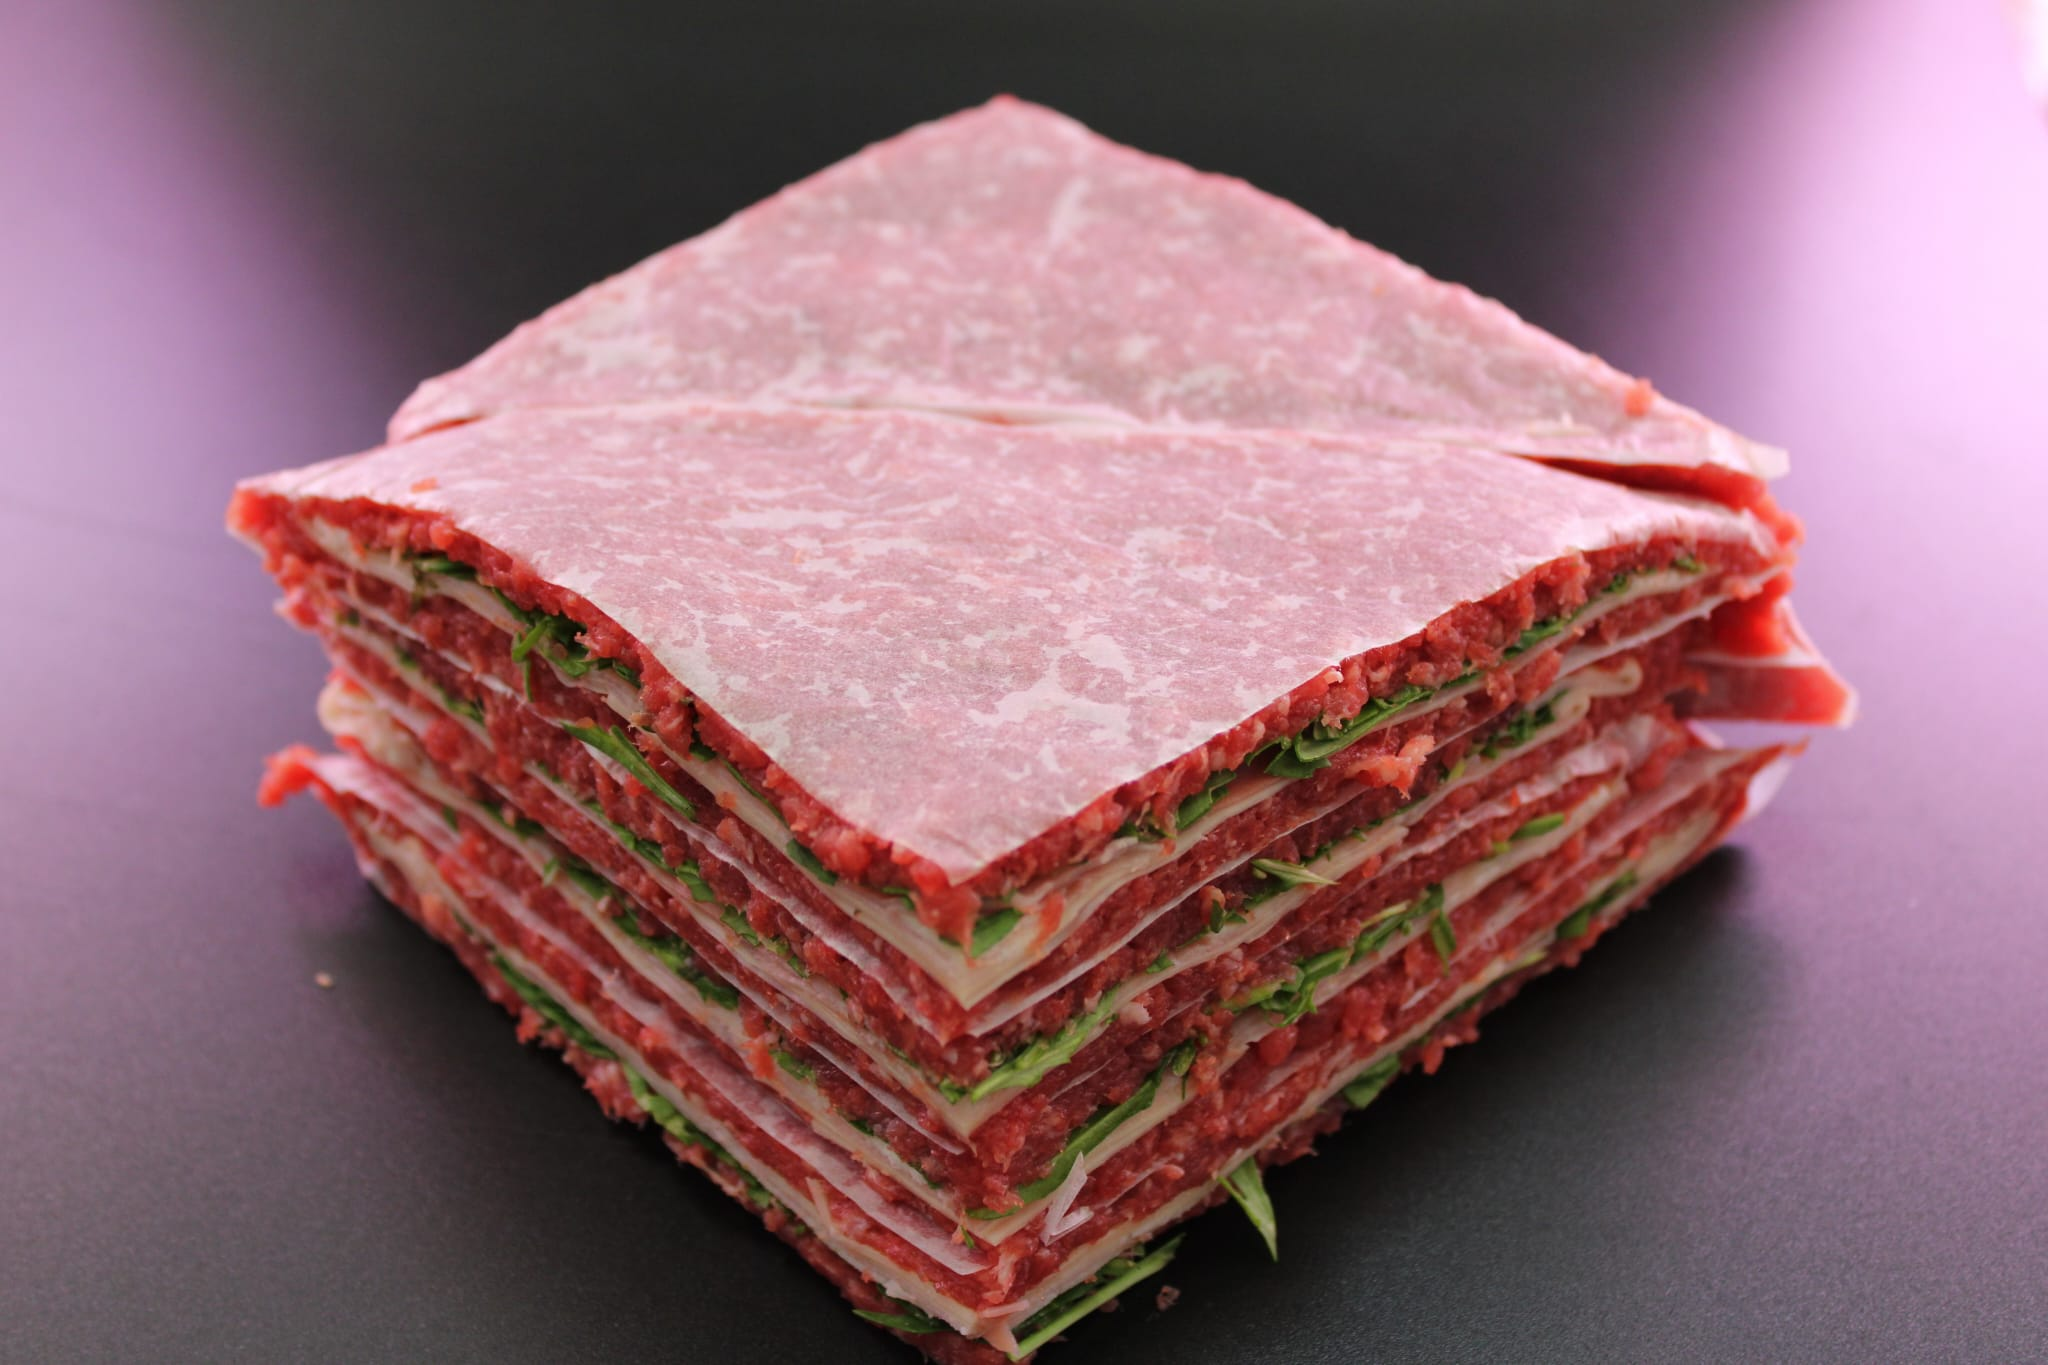
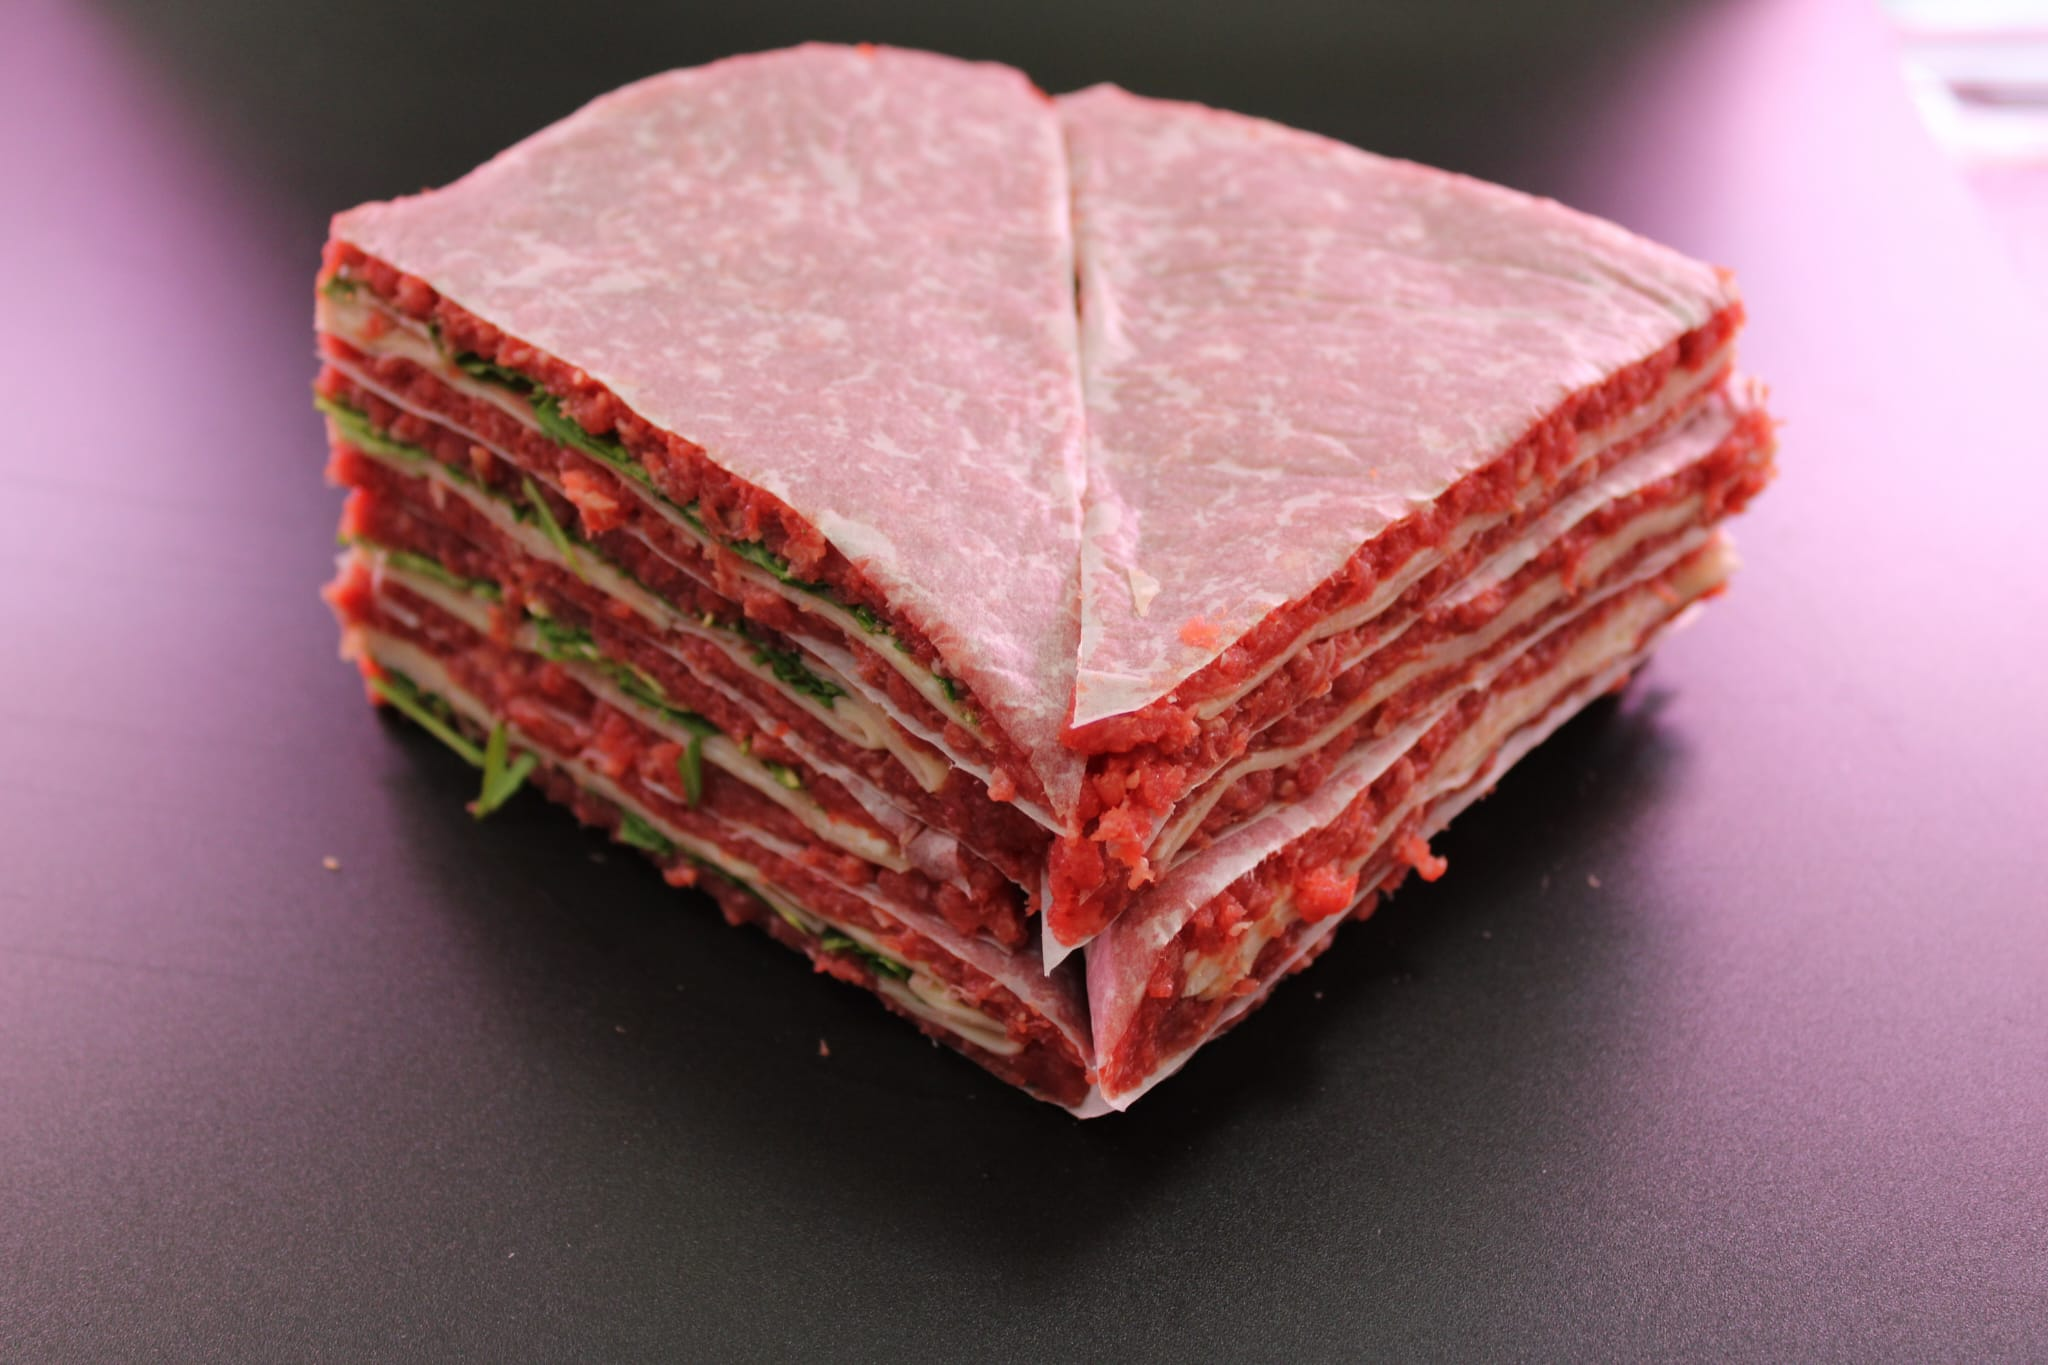
Modificata una foto

diff --git a/html/preparati.html b/html/preparati.html
@@ -151,7 +151,7 @@
                 </li>
                 <li class="cards__item">
                     <div class="card">
-                        <div class="card__image" style="background-image: url('../img/Preparati/Tramezzini2.jpeg');"></div>
+                        <div class="card__image" style="background-image: url('../img/Preparati/Tramezzini.jpeg');"></div>
                         <div class="card__content">
                             <div class="card__title">Tramezzini</div>
                             <p class="card__text">  </p>
